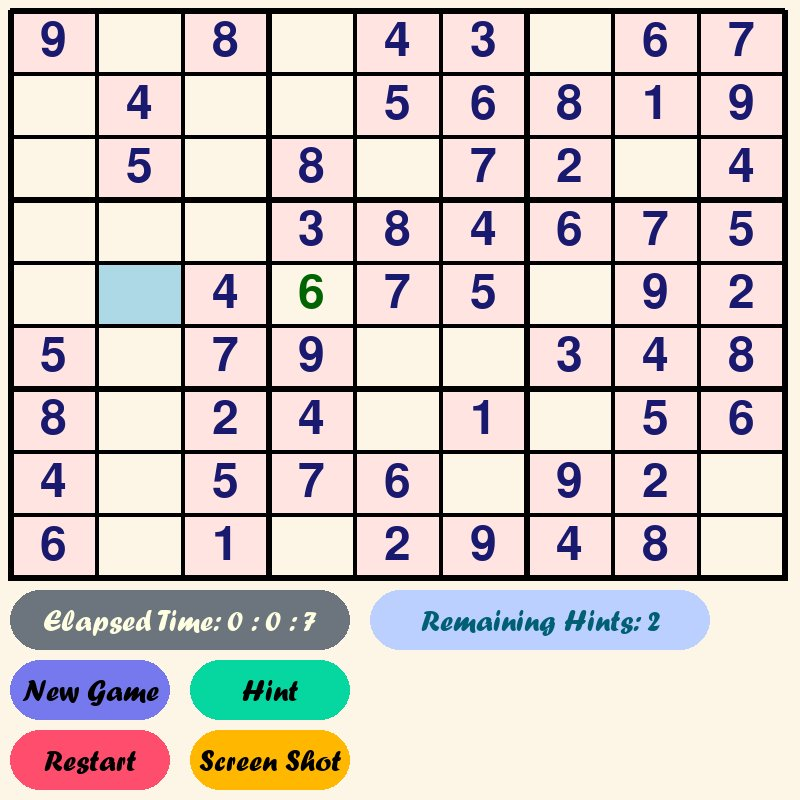
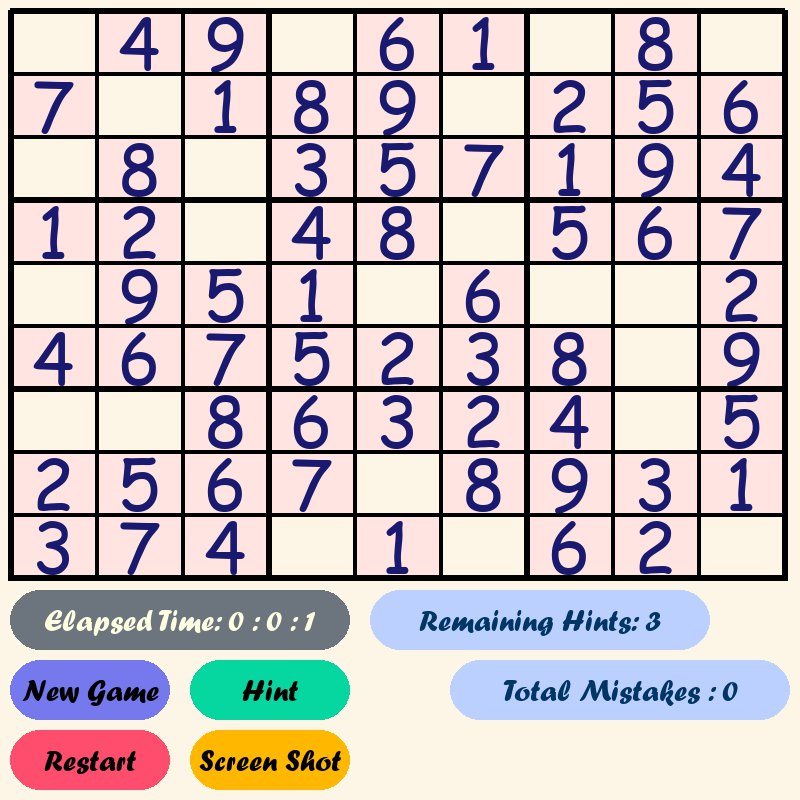
EasyGui

diff --git a/main_DanesH.py b/main_DanesH.py
@@ -1,3 +1,4 @@
+from fileinput import filename
 import pygame
 import sys
 from dokusan import generators, renderers, solvers
@@ -8,7 +9,10 @@ from pygame.rect import *
 import pygame_menu
 import pygame_menu.themes
 from typing import Tuple, Any
+import easygui
 
+# import os
+# import subprocess
 
 SIZE = (800, 800)
 Width, Height = SIZE
@@ -139,6 +143,30 @@ Remaining_Hints = {  # NEWWWWWWWWWWWWWWWWWWWWWWWWWWWWWWWWWWWWWWW
     - Button_Border * 6
     - Button_Height * 3
     - Vertical_Space_Between_Buttons * 2,
+    "width": 2 * Button_Width + Horizontal_Space_Between_Buttons,
+    "height": Button_Height,
+    "border": Button_Border,
+    "color_inactive": "#bbd0ff",
+    "color_active": "#",
+    "border_color": background_color,
+    "text": f"Remaining Hints: {Remaining_Hints_Num}",
+    "text_color_inactive": "#003566",
+    "text_color_active": "#",
+    "font": "FORTE.ttf",
+    "font_size": 30,
+}
+
+Errors_Happened = {  # NEWWWWWWWWWWWWWWWWWWWWWWWWWWWWWWWWWWWWWWW
+    "left": Width
+    - Margin
+    - 4 * Button_Border
+    - 2 * Button_Width
+    - Horizontal_Space_Between_Buttons,
+    "top": Height
+    - Margin
+    - Button_Border * 4
+    - Button_Height * 2
+    - Vertical_Space_Between_Buttons * 1,
     "width": 2 * Button_Width + Horizontal_Space_Between_Buttons,
     "height": Button_Height,
     "border": Button_Border,
@@ -327,6 +355,12 @@ def insert(
         new_game_btn = draw_button(New_Game, screen=screen)
         restart_game_btn = draw_button(Restart_Game, screen=screen)
         # hint_btn = draw_button(Hint, screen=screen)
+        Errors_Happened[
+            "text"
+        ] = f"Total Mistakes : {totall_mistakes}"  # NEWWWWWWWWWWWWWWWWWWWWWWWW
+        errors_happened_btn = draw_button(
+            Errors_Happened, screen=screen
+        )  # NEWWWWWWWWWWWWWWWWWWWWWWWW
         if Remaining_Hints_Num == 0:
             hint_btn = draw_button(Hint, screen=screen, mouse_over=1)
             Remaining_Hints["text_color_inactive"] = RED
@@ -355,13 +389,17 @@ def insert(
 
             if event.type == pygame.MOUSEBUTTONUP:
                 if hint_btn.collidepoint(pygame.mouse.get_pos()) and hint_numbers < 3:
-                    if Remaining_Hints_Num == 0:
-                        hint_btn = draw_button(Hint, screen=screen, mouse_over=1)
-                        Remaining_Hints["text_color_inactive"] = RED
-                    else:
+                    # if Remaining_Hints_Num == 0:
+                    #     hint_btn = draw_button(Hint, screen=screen, mouse_over=1)
+                    #     Remaining_Hints["text_color_inactive"] = RED
+                    if Remaining_Hints_Num != 0:
                         hint_btn = draw_button(Hint, screen=screen)
                         Remaining_Hints["text_color_inactive"] = "#003566"
                     Remaining_Hints_Num = 2 - hint_numbers
+                    if Remaining_Hints_Num == 0:
+                        hint_btn = draw_button(Hint, screen=screen, mouse_over=1)
+                        Remaining_Hints["text_color_inactive"] = RED
+
                     Remaining_Hints["text"] = f"Remaining Hints: {Remaining_Hints_Num}"
                     remaining_hints_btn = draw_button(Remaining_Hints, screen=screen)
 
@@ -419,7 +457,14 @@ def insert(
                     pygame.display.flip()
                     # ss_sound = pygame.mixer.Sound("ScreenShot.wav")
                     # ss_sound.play()
-                    pygame.image.save(screen, "ScreenShot.jpg")
+                    file = easygui.filesavebox(
+                        title="Browser",
+                        msg="Select a folder:",
+                        filetypes=["*.jpg"],
+                        default="Sudoku Screenshot",
+                    )
+                    if file != None:
+                        pygame.image.save(screen, f"{file}.jpg")
                     sleep(0.1)
 
             if event.type == pygame.KEYDOWN:
@@ -813,6 +858,13 @@ def main(initial_sudoko=np.zeros((9, 9), dtype=int)):
             screen_shot_btn = draw_button(Screen_Shot, screen=screen)
             remaining_hints_btn = draw_button(Remaining_Hints, screen=screen)
             Remaining_Hints_Num = 3 - hint_numbers
+            Errors_Happened[
+                "text"
+            ] = f"Total Mistakes : {totall_mistakes}"  # NEWWWWWWWWWWWWWWWWWWWWWWWW
+            errors_happened_btn = draw_button(
+                Errors_Happened, screen=screen
+            )  # NEWWWWWWWWWWWWWWWWWWWWWWWW
+
             if Remaining_Hints_Num == 0:
                 hint_btn = draw_button(Hint, screen=screen, mouse_over=1)
                 Remaining_Hints["text_color_inactive"] = RED
@@ -886,7 +938,14 @@ def main(initial_sudoko=np.zeros((9, 9), dtype=int)):
                             screen_shot_btn = draw_button(Screen_Shot, screen=screen)
                             pygame.display.flip()
                             # ss_sound.play()
-                            pygame.image.save(screen, "ScreenShot.jpg")
+                            file = easygui.filesavebox(
+                                title="Browser",
+                                msg="Select a folder:",
+                                filetypes=["*.jpg"],
+                                default="Sudoku Screenshot",
+                            )
+                            if file != None:
+                                pygame.image.save(screen, f"{file}.jpg")
                             sleep(0.1)
 
                 else:
